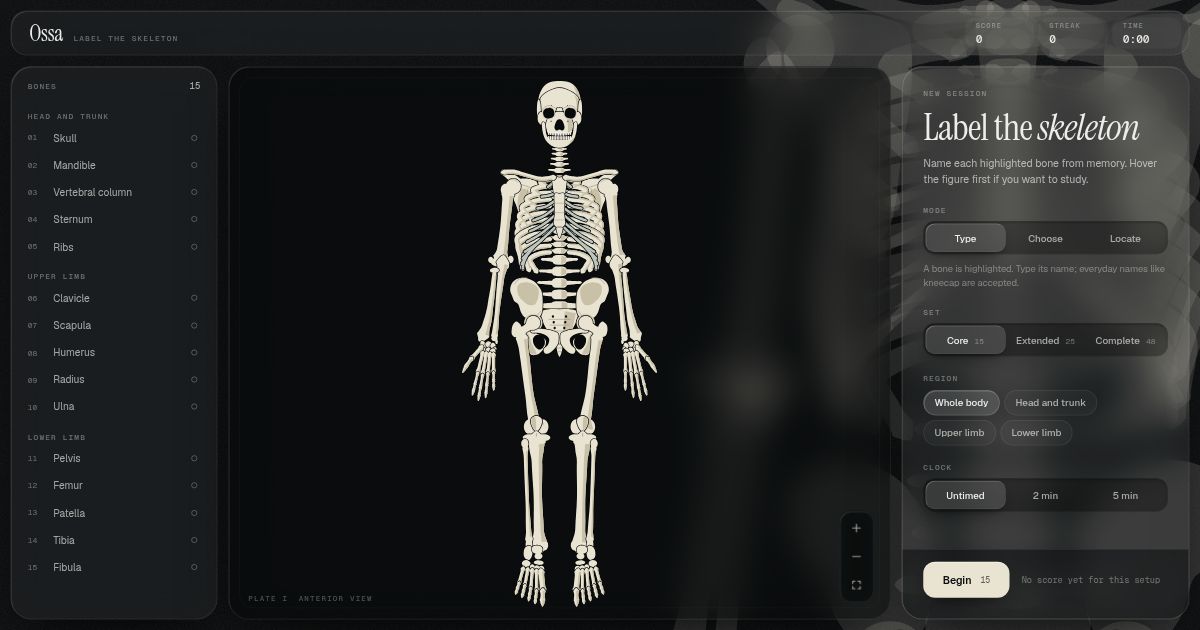
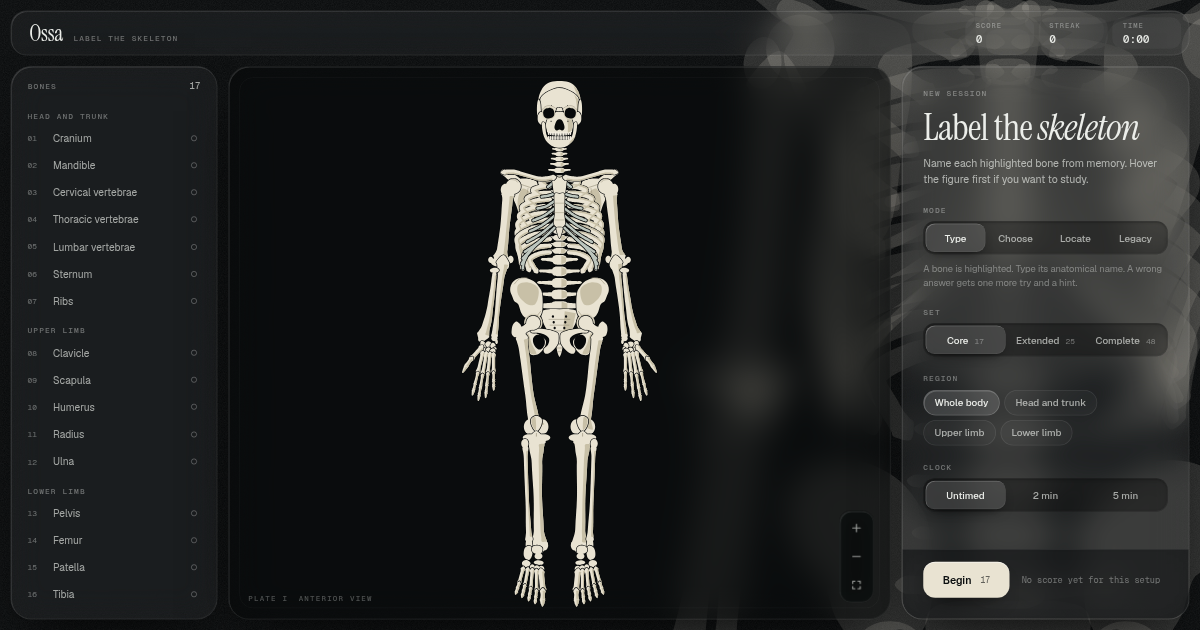
Split the vertebrae into cervical, thoracic and lumbar at every level
- Remove the combined "Vertebral column" bone; Cervical, Thoracic and
  Lumbar vertebrae are now asked as separate bones from Core upward
- Core set grows from 15 to 17 bones (Extended 25 and Complete 48 are
  unchanged); README and the share image updated to match
- Legacy pin spacing rechecked: no Core pins closer than ~30 units

Claude-Session: https://claude.ai/code/session_01AbGio7g85ZrXQ32oC3xACp

diff --git a/js/data.js b/js/data.js
@@ -1,5 +1,5 @@
 // Bone catalogue. `id`s that have geometry match data-bone in skeleton.js; ids without
-// geometry (cranium, spine, pelvis, ...) are parents that merge their children at lower levels.
+// geometry (cranium, pelvis, ...) are parents that merge their children at lower levels.
 //
 //   level    lowest difficulty at which the bone is asked as itself
 //   splitAt  from this difficulty upward the bone is replaced by its children
@@ -34,11 +34,10 @@ export const BONES = [
   b('nasal', 'Nasal bone', { region: 'axial', level: 3, parent: 'cranium', syn: [], everyday: ['nose bone', 'bridge of the nose'], note: 'Two small bones that form the bridge of the nose. The rest of the nose is cartilage.' }),
   b('mandible', 'Mandible', { region: 'axial', syn: [], everyday: ['jaw', 'jawbone', 'jaw bone', 'lower jaw'], note: 'The lower jaw and the only head bone that moves freely. It holds the lower teeth.' }),
 
-  /* spine */
-  b('spine', 'Vertebral column', { region: 'axial', splitAt: 2, syn: ['spinal column'], everyday: ['spine', 'backbone'], note: 'A stack of vertebrae that shields the spinal cord and carries the weight of the upper body. Twenty-four of them stay mobile.' }),
-  b('cervical', 'Cervical vertebrae', { region: 'axial', level: 2, parent: 'spine', syn: ['cervical spine'], everyday: ['neck bones', 'neck vertebrae'], note: 'Seven neck vertebrae, the smallest and most mobile. The first two, atlas and axis, allow nodding and turning.' }),
-  b('thoracic', 'Thoracic vertebrae', { region: 'axial', level: 2, parent: 'spine', syn: ['thoracic spine'], everyday: ['upper back bones', 'chest vertebrae'], note: 'Twelve vertebrae that each carry a pair of ribs and form the back of the rib cage.' }),
-  b('lumbar', 'Lumbar vertebrae', { region: 'axial', level: 2, parent: 'spine', syn: ['lumbar spine'], everyday: ['lower back bones'], note: 'Five large vertebrae in the lower back. They bear the greatest load of the spine.' }),
+  /* vertebrae */
+  b('cervical', 'Cervical vertebrae', { region: 'axial', syn: ['cervical spine'], everyday: ['neck bones', 'neck vertebrae'], note: 'Seven neck vertebrae, the smallest and most mobile. The first two, atlas and axis, allow nodding and turning.' }),
+  b('thoracic', 'Thoracic vertebrae', { region: 'axial', syn: ['thoracic spine'], everyday: ['upper back bones', 'chest vertebrae'], note: 'Twelve vertebrae that each carry a pair of ribs and form the back of the rib cage.' }),
+  b('lumbar', 'Lumbar vertebrae', { region: 'axial', syn: ['lumbar spine'], everyday: ['lower back bones'], note: 'Five large vertebrae in the lower back. They bear the greatest load of the spine.' }),
 
   /* thorax */
   b('sternum', 'Sternum', { region: 'axial', splitAt: 3, syn: [], everyday: ['breastbone', 'breast bone'], note: 'The breastbone. A flat bone in three parts that anchors the upper seven pairs of ribs.' }),

diff --git a/js/app.js b/js/app.js
@@ -77,7 +77,7 @@ const anchors = {};
 build.bones.forEach((r) => {
   if (r.anchor && r.side <= 0 && !anchors[r.id]) anchors[r.id] = r.anchor;
 });
-const ANCHOR_VIA = { cranium: 'frontal', spine: 'lumbar', sternum: 'sternal-body', ribs: 'true-ribs', pelvis: 'ilium', 'hip-bone': 'ilium', carpals: 'capitate', tarsals: 'cuboid' };
+const ANCHOR_VIA = { cranium: 'frontal', sternum: 'sternal-body', ribs: 'true-ribs', pelvis: 'ilium', 'hip-bone': 'ilium', carpals: 'capitate', tarsals: 'cuboid' };
 function anchorFor(key) {
   if (anchors[key]) return anchors[key];
   if (anchors[ANCHOR_VIA[key]]) return anchors[ANCHOR_VIA[key]];

diff --git a/README.md b/README.md
@@ -21,7 +21,7 @@ Remaining, Correct, Wrong, Accuracy and a stopwatch with tenths of a second.
 The other modes use points: 100 per correct answer (60 on a second try), plus a streak bonus,
 minus 25 per letter hint.
 
-Three sets share one drawing: **Core** (15 bones), **Extended** (25) and **Complete** (48,
+Three sets share one drawing: **Core** (17 bones), **Extended** (25) and **Complete** (48,
 down to individual carpals, tarsals and cranial bones). Filter by region, add a 2 or 5 minute
 clock, and study first by hovering or clicking the figure. Scroll or pinch to zoom, drag to pan.
 Bests are stored in `localStorage`.
